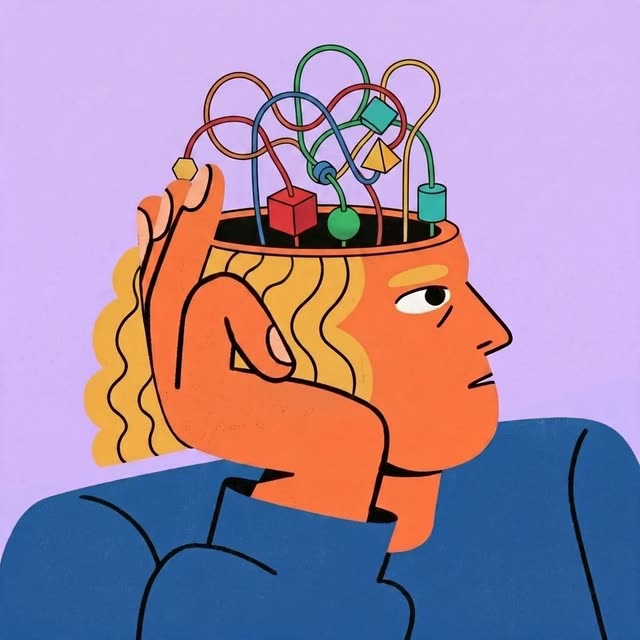
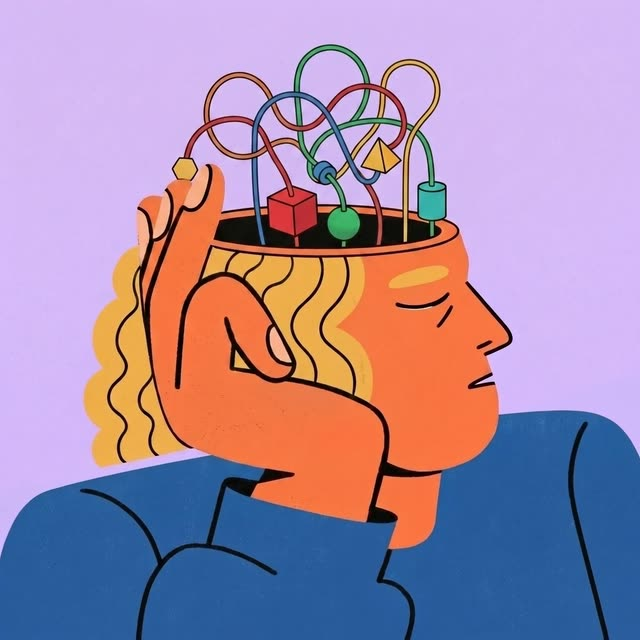
Rail: Gaming to far right; header wording; new Science video; readable Squad heading
- Mobile rail: move Gaming to the far right so the other scouts lead.
- Header: 'editorial is approved' -> 'editorial is the right direction'.
- Replace Science video with the new take everywhere (science-active).
- Fix the 'Your Scout Squad' overlay heading (0-height: missing line-height
  with cqw font-size).

diff --git a/index.html b/index.html
@@ -8,7 +8,7 @@
 <link rel="preconnect" href="https://fonts.googleapis.com" />
 <link rel="preconnect" href="https://fonts.gstatic.com" crossorigin />
 <link href="https://fonts.googleapis.com/css2?family=Hanken+Grotesk:wght@400;500;600;700;800&family=Libre+Caslon+Text:wght@400;700&display=swap" rel="stylesheet" />
-<link rel="stylesheet" href="d5.css?v=9" />
+<link rel="stylesheet" href="d5.css?v=10" />
 </head>
 <body>
 
@@ -37,8 +37,8 @@
     <div class="hero-inner">
       <p class="eyebrow">Delivery #5 · Scouts, live in the product · July 7, 2026</p>
       <h1 class="hero-title mini">The goals for this round</h1>
-      <p class="hero-lede">From the last round: editorial is approved, push it weirder, let the
-      environment tell the story, keep every scout ownable.</p>
+      <p class="hero-lede">From the last round: editorial is the right direction, push it weirder,
+      let the environment tell the story, keep every scout ownable.</p>
       <div class="chips">
         <div class="saidchip"><b>01</b>Character stories &amp; a shared world</div>
         <div class="saidchip"><b>02</b>Environmental storytelling</div>
@@ -92,12 +92,12 @@
           <img class="shot" src="media/mobile-ui.jpg" alt="Yahoo Home mobile" loading="lazy" />
           <div class="ovl rail-ovl">
             <div class="rail-circ all"><span class="rc-collage"><img src="media/gaming-greeting.jpg" alt=""><img src="media/horoscope-greeting.jpg" alt=""><img src="media/books-active.jpg" alt=""><img src="media/science-active.jpg" alt=""></span><figcaption>All</figcaption></div>
-            <div class="rail-circ"><span class="rc-clip"><video src="media/gaming-greeting.mp4" poster="media/gaming-greeting.jpg" class="autovid" muted loop playsinline preload="none" style="transform:scale(1.5);transform-origin:50% 26%"></video></span><figcaption>Gaming</figcaption></div>
             <div class="rail-circ"><span class="rc-clip"><video src="media/horoscope-greeting.mp4" poster="media/horoscope-greeting.jpg" class="autovid" muted loop playsinline preload="none" style="transform:scale(1.5);transform-origin:50% 32%"></video></span><figcaption>Horoscope</figcaption></div>
             <div class="rail-circ"><span class="rc-clip"><video src="media/books-active.mp4" poster="media/books-active.jpg" class="autovid" muted loop playsinline preload="none" style="transform:scale(1.5);transform-origin:50% 30%"></video></span><figcaption>Books</figcaption></div>
             <div class="rail-circ"><span class="rc-clip"><video src="media/science-active.mp4" poster="media/science-active.jpg" class="autovid" muted loop playsinline preload="none" style="transform:scale(1.5);transform-origin:58% 44%"></video></span><figcaption>Science</figcaption></div>
             <div class="rail-circ"><span class="rc-clip"><video src="media/sports-active.mp4" poster="media/sports-active.jpg" class="autovid" muted loop playsinline preload="none" style="transform:scale(1.5);transform-origin:44% 30%"></video></span><figcaption>Sports</figcaption></div>
             <div class="rail-circ"><span class="rc-clip"><video src="media/weather-active.mp4" poster="media/weather-active.jpg" class="autovid" muted loop playsinline preload="none" style="transform:scale(1.45);transform-origin:50% 26%"></video></span><figcaption>Weather</figcaption></div>
+            <div class="rail-circ"><span class="rc-clip"><video src="media/gaming-greeting.mp4" poster="media/gaming-greeting.jpg" class="autovid" muted loop playsinline preload="none" style="transform:scale(1.5);transform-origin:50% 26%"></video></span><figcaption>Gaming</figcaption></div>
           </div>
         </div>
       </div>
@@ -227,6 +227,6 @@
 <!-- lightbox -->
 <div class="lightbox" id="lightbox"><button class="lightbox-close" id="lbClose" aria-label="Close">&times;</button></div>
 
-<script src="d5.js?v=9"></script>
+<script src="d5.js?v=10"></script>
 </body>
 </html>

diff --git a/v5/index.html b/v5/index.html
@@ -8,7 +8,7 @@
 <link rel="preconnect" href="https://fonts.googleapis.com" />
 <link rel="preconnect" href="https://fonts.gstatic.com" crossorigin />
 <link href="https://fonts.googleapis.com/css2?family=Hanken+Grotesk:wght@400;500;600;700;800&family=Libre+Caslon+Text:wght@400;700&display=swap" rel="stylesheet" />
-<link rel="stylesheet" href="../d5.css?v=9" />
+<link rel="stylesheet" href="../d5.css?v=10" />
 </head>
 <body>
 
@@ -37,8 +37,8 @@
     <div class="hero-inner">
       <p class="eyebrow">Delivery #5 · Scouts, live in the product · July 7, 2026</p>
       <h1 class="hero-title mini">The goals for this round</h1>
-      <p class="hero-lede">From the last round: editorial is approved, push it weirder, let the
-      environment tell the story, keep every scout ownable.</p>
+      <p class="hero-lede">From the last round: editorial is the right direction, push it weirder,
+      let the environment tell the story, keep every scout ownable.</p>
       <div class="chips">
         <div class="saidchip"><b>01</b>Character stories &amp; a shared world</div>
         <div class="saidchip"><b>02</b>Environmental storytelling</div>
@@ -92,12 +92,12 @@
           <img class="shot" src="../media/mobile-ui.jpg" alt="Yahoo Home mobile" loading="lazy" />
           <div class="ovl rail-ovl">
             <div class="rail-circ all"><span class="rc-collage"><img src="../media/gaming-greeting.jpg" alt=""><img src="../media/horoscope-greeting.jpg" alt=""><img src="../media/books-active.jpg" alt=""><img src="../media/science-active.jpg" alt=""></span><figcaption>All</figcaption></div>
-            <div class="rail-circ"><span class="rc-clip"><video src="../media/gaming-greeting.mp4" poster="../media/gaming-greeting.jpg" class="autovid" muted loop playsinline preload="none" style="transform:scale(1.5);transform-origin:50% 26%"></video></span><figcaption>Gaming</figcaption></div>
             <div class="rail-circ"><span class="rc-clip"><video src="../media/horoscope-greeting.mp4" poster="../media/horoscope-greeting.jpg" class="autovid" muted loop playsinline preload="none" style="transform:scale(1.5);transform-origin:50% 32%"></video></span><figcaption>Horoscope</figcaption></div>
             <div class="rail-circ"><span class="rc-clip"><video src="../media/books-active.mp4" poster="../media/books-active.jpg" class="autovid" muted loop playsinline preload="none" style="transform:scale(1.5);transform-origin:50% 30%"></video></span><figcaption>Books</figcaption></div>
             <div class="rail-circ"><span class="rc-clip"><video src="../media/science-active.mp4" poster="../media/science-active.jpg" class="autovid" muted loop playsinline preload="none" style="transform:scale(1.5);transform-origin:58% 44%"></video></span><figcaption>Science</figcaption></div>
             <div class="rail-circ"><span class="rc-clip"><video src="../media/sports-active.mp4" poster="../media/sports-active.jpg" class="autovid" muted loop playsinline preload="none" style="transform:scale(1.5);transform-origin:44% 30%"></video></span><figcaption>Sports</figcaption></div>
             <div class="rail-circ"><span class="rc-clip"><video src="../media/weather-active.mp4" poster="../media/weather-active.jpg" class="autovid" muted loop playsinline preload="none" style="transform:scale(1.45);transform-origin:50% 26%"></video></span><figcaption>Weather</figcaption></div>
+            <div class="rail-circ"><span class="rc-clip"><video src="../media/gaming-greeting.mp4" poster="../media/gaming-greeting.jpg" class="autovid" muted loop playsinline preload="none" style="transform:scale(1.5);transform-origin:50% 26%"></video></span><figcaption>Gaming</figcaption></div>
           </div>
         </div>
       </div>
@@ -227,6 +227,6 @@
 <!-- lightbox -->
 <div class="lightbox" id="lightbox"><button class="lightbox-close" id="lbClose" aria-label="Close">&times;</button></div>
 
-<script src="../d5.js?v=9"></script>
+<script src="../d5.js?v=10"></script>
 </body>
 </html>

diff --git a/d5.css b/d5.css
@@ -288,7 +288,7 @@ a{color:inherit;text-decoration:none}
 
 /* ---- Your Scout Squad + Scout Activity overlay (desktop) ---- */
 .squad-ovl{left:9.05%;top:17.5%;width:23.8%;height:80%;container-type:inline-size;padding:0 .6cqw}
-.ov-h{font-family:var(--font-head);font-weight:800;font-size:5.4cqw;letter-spacing:.1cqw;color:#241f30;text-transform:uppercase;margin:0 0 3cqw}
+.ov-h{font-family:var(--font-head);font-weight:800;font-size:5.4cqw;line-height:1.2;letter-spacing:.1cqw;color:#241f30;text-transform:uppercase;margin:0 0 3cqw}
 .ov-h-sub{margin-top:5cqw}
 .ov-grid{display:grid;grid-template-columns:repeat(3,1fr);gap:2.6cqw 3cqw}
 .ov-tile{margin:0;display:block}